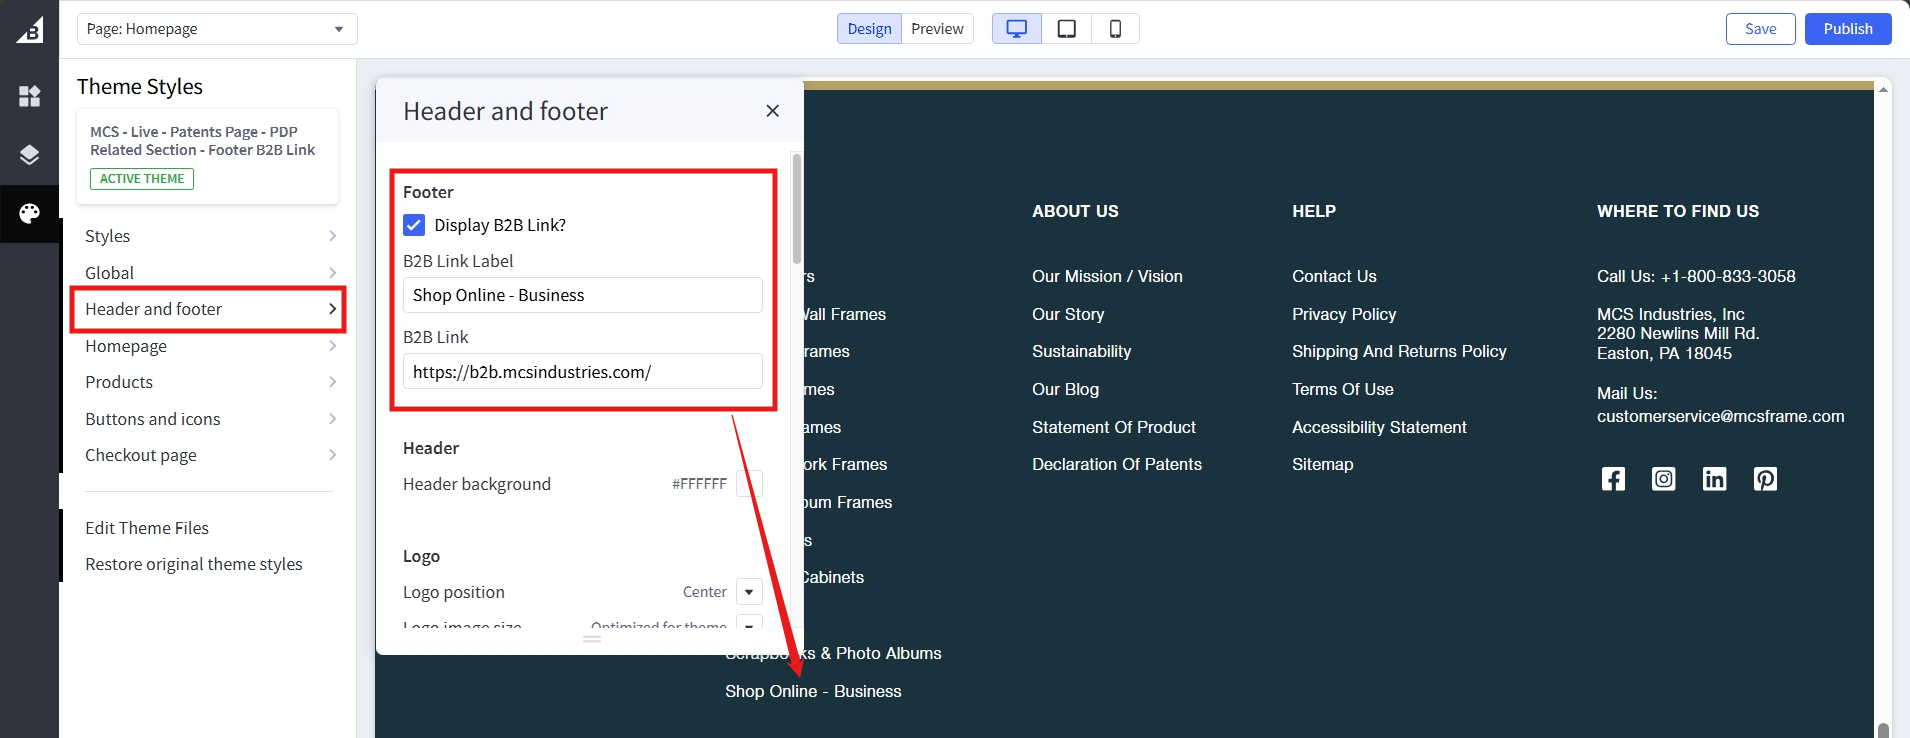
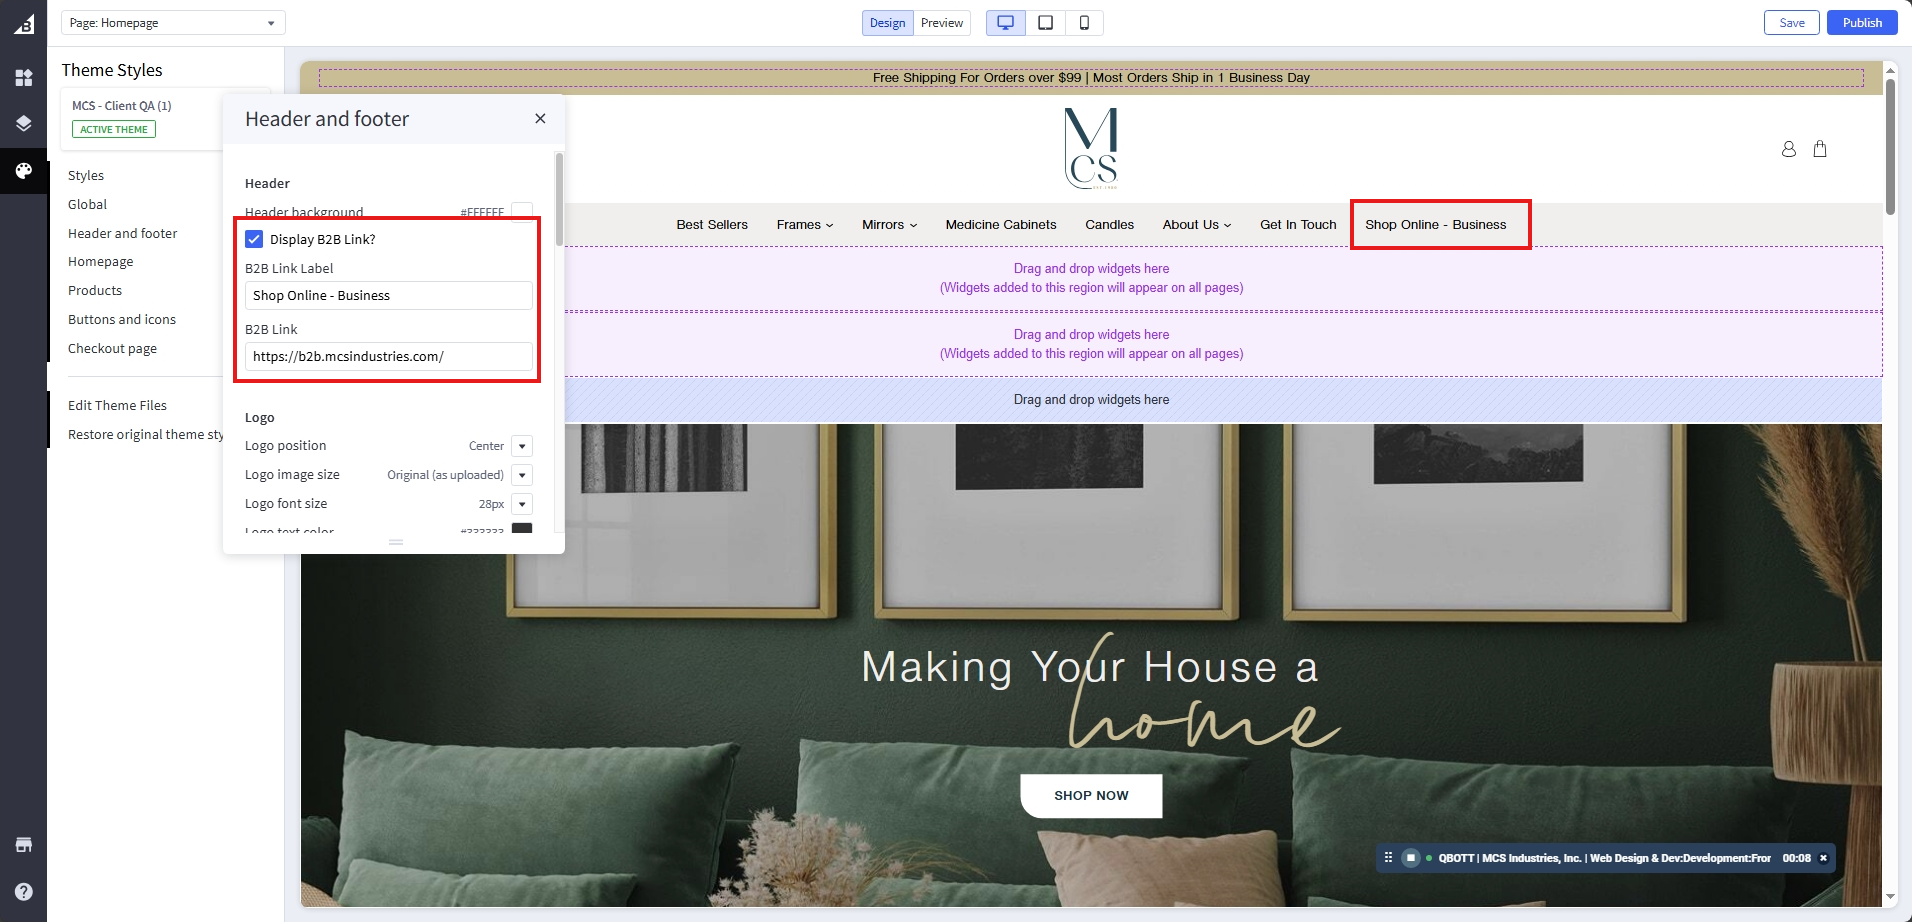
update: header b2b

diff --git a/site/header/index.html b/site/header/index.html
@@ -51,6 +51,8 @@
     </li>
     <li class="toctree-l2"><a class="reference internal" href="#navigation-links">Navigation links</a>
     </li>
+    <li class="toctree-l2"><a class="reference internal" href="#b2b-link">B2B Link</a>
+    </li>
     </ul>
                 </li>
               </ul>
@@ -125,6 +127,10 @@
 <p><img alt="header-main-nav-highlight-bc.png" src="../img/header-main-nav-highlight-bc.png" /></p>
 <p>3- Navigation to webpages section as marked in following screenshot in bigcommerce dashboard. The first 2 <strong>visible</strong> items are displayed and in the same order, limited to 2 items. Click on the respective item to edit name or link.</p>
 <p><img alt="header-main-nav-highlight-bc-mark.png" src="../img/header-main-nav-highlight-bc-mark.png" /></p>
+<h2 id="b2b-link">B2B Link</h2>
+<p>1- Navigate to the <a href="https://store-pyabsa1eqo.mybigcommerce.com/manage/page-builder?channelId=1">page builder</a> and edit the following marked area with the desired changes:</p>
+<p><img alt="footer-bc-b2b-link.png" src="../img/footer-bc-b2b-link.png" /></p>
+<p>2- Save to preview and publish to push it to live.</p>
               
             </div>
           </div><footer>

diff --git a/site/footer/index.html b/site/footer/index.html
@@ -55,8 +55,6 @@
     </li>
     <li class="toctree-l2"><a class="reference internal" href="#call-us-address-mail">Call Us, Address, Mail</a>
     </li>
-    <li class="toctree-l2"><a class="reference internal" href="#b2b-link">B2B Link</a>
-    </li>
     </ul>
                 </li>
               </ul>
@@ -125,10 +123,6 @@
 <p><img alt="footer-contact-us.png" src="../img/footer-contact-us.png" /></p>
 <p>2- Editing the marked will change the respective text.</p>
 <p><img alt="footer-contact-us-bc.png" src="../img/footer-contact-us-bc.png" /></p>
-<h2 id="b2b-link">B2B Link</h2>
-<p>1- Navigate to the <a href="https://store-pyabsa1eqo.mybigcommerce.com/manage/page-builder?channelId=1">page builder</a> and edit the following marked area with the desired changes:</p>
-<p><img alt="footer-bc-b2b-link.png" src="../img/footer-bc-b2b-link.png" /></p>
-<p>2- Save to preview and publish to push it to live.</p>
               
             </div>
           </div><footer>

diff --git a/site/index.html b/site/index.html
@@ -191,5 +191,5 @@
 
 <!--
 MkDocs version : 1.6.1
-Build Date UTC : 2026-01-15 00:07:35.123869+00:00
+Build Date UTC : 2026-02-03 01:34:45.462705+00:00
 -->

diff --git a/docs/header.md b/docs/header.md
@@ -26,3 +26,11 @@
 3- Navigation to webpages section as marked in following screenshot in bigcommerce dashboard. The first 2 <strong>visible</strong> items are displayed and in the same order, limited to 2 items. Click on the respective item to edit name or link.
 
 ![header-main-nav-highlight-bc-mark.png](img/header-main-nav-highlight-bc-mark.png)
+
+## B2B Link
+
+1- Navigate to the <a href="https://store-pyabsa1eqo.mybigcommerce.com/manage/page-builder?channelId=1">page builder</a> and edit the following marked area with the desired changes:
+
+![footer-bc-b2b-link.png](img/footer-bc-b2b-link.png)
+
+2- Save to preview and publish to push it to live.

diff --git a/docs/footer.md b/docs/footer.md
@@ -24,11 +24,3 @@
 2- Editing the marked will change the respective text.
 
 ![footer-contact-us-bc.png](img/footer-contact-us-bc.png)
-
-## B2B Link
-
-1- Navigate to the <a href="https://store-pyabsa1eqo.mybigcommerce.com/manage/page-builder?channelId=1">page builder</a> and edit the following marked area with the desired changes:
-
-![footer-bc-b2b-link.png](img/footer-bc-b2b-link.png)
-
-2- Save to preview and publish to push it to live.
